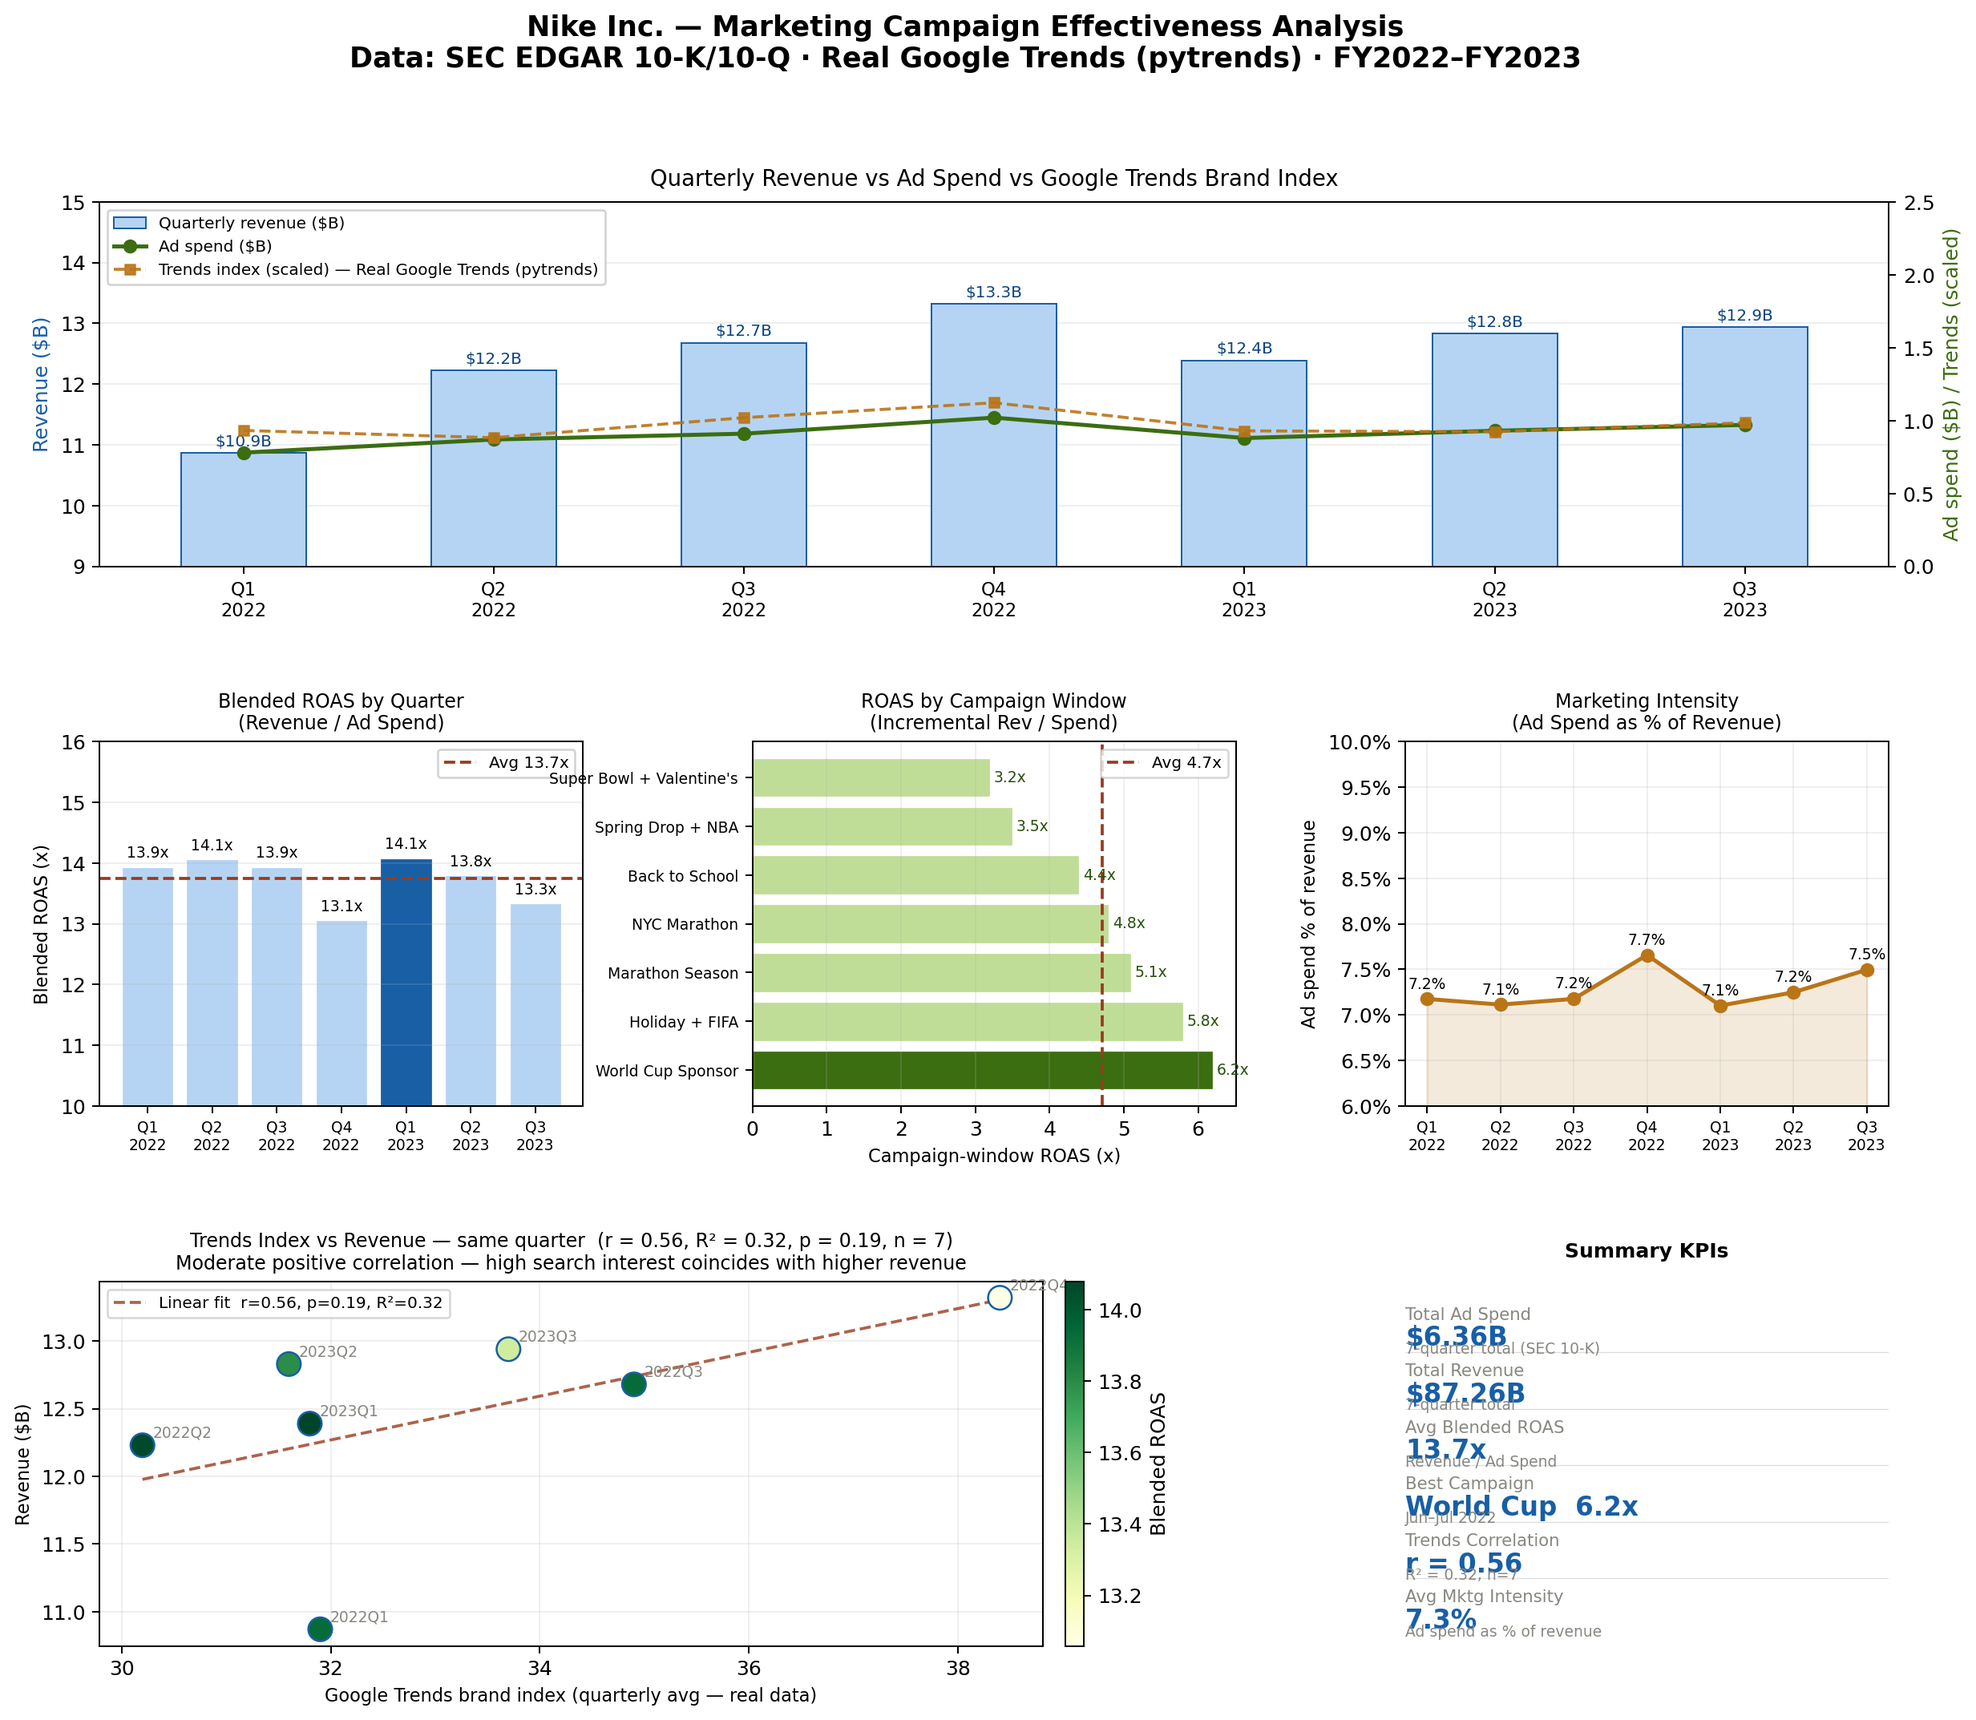
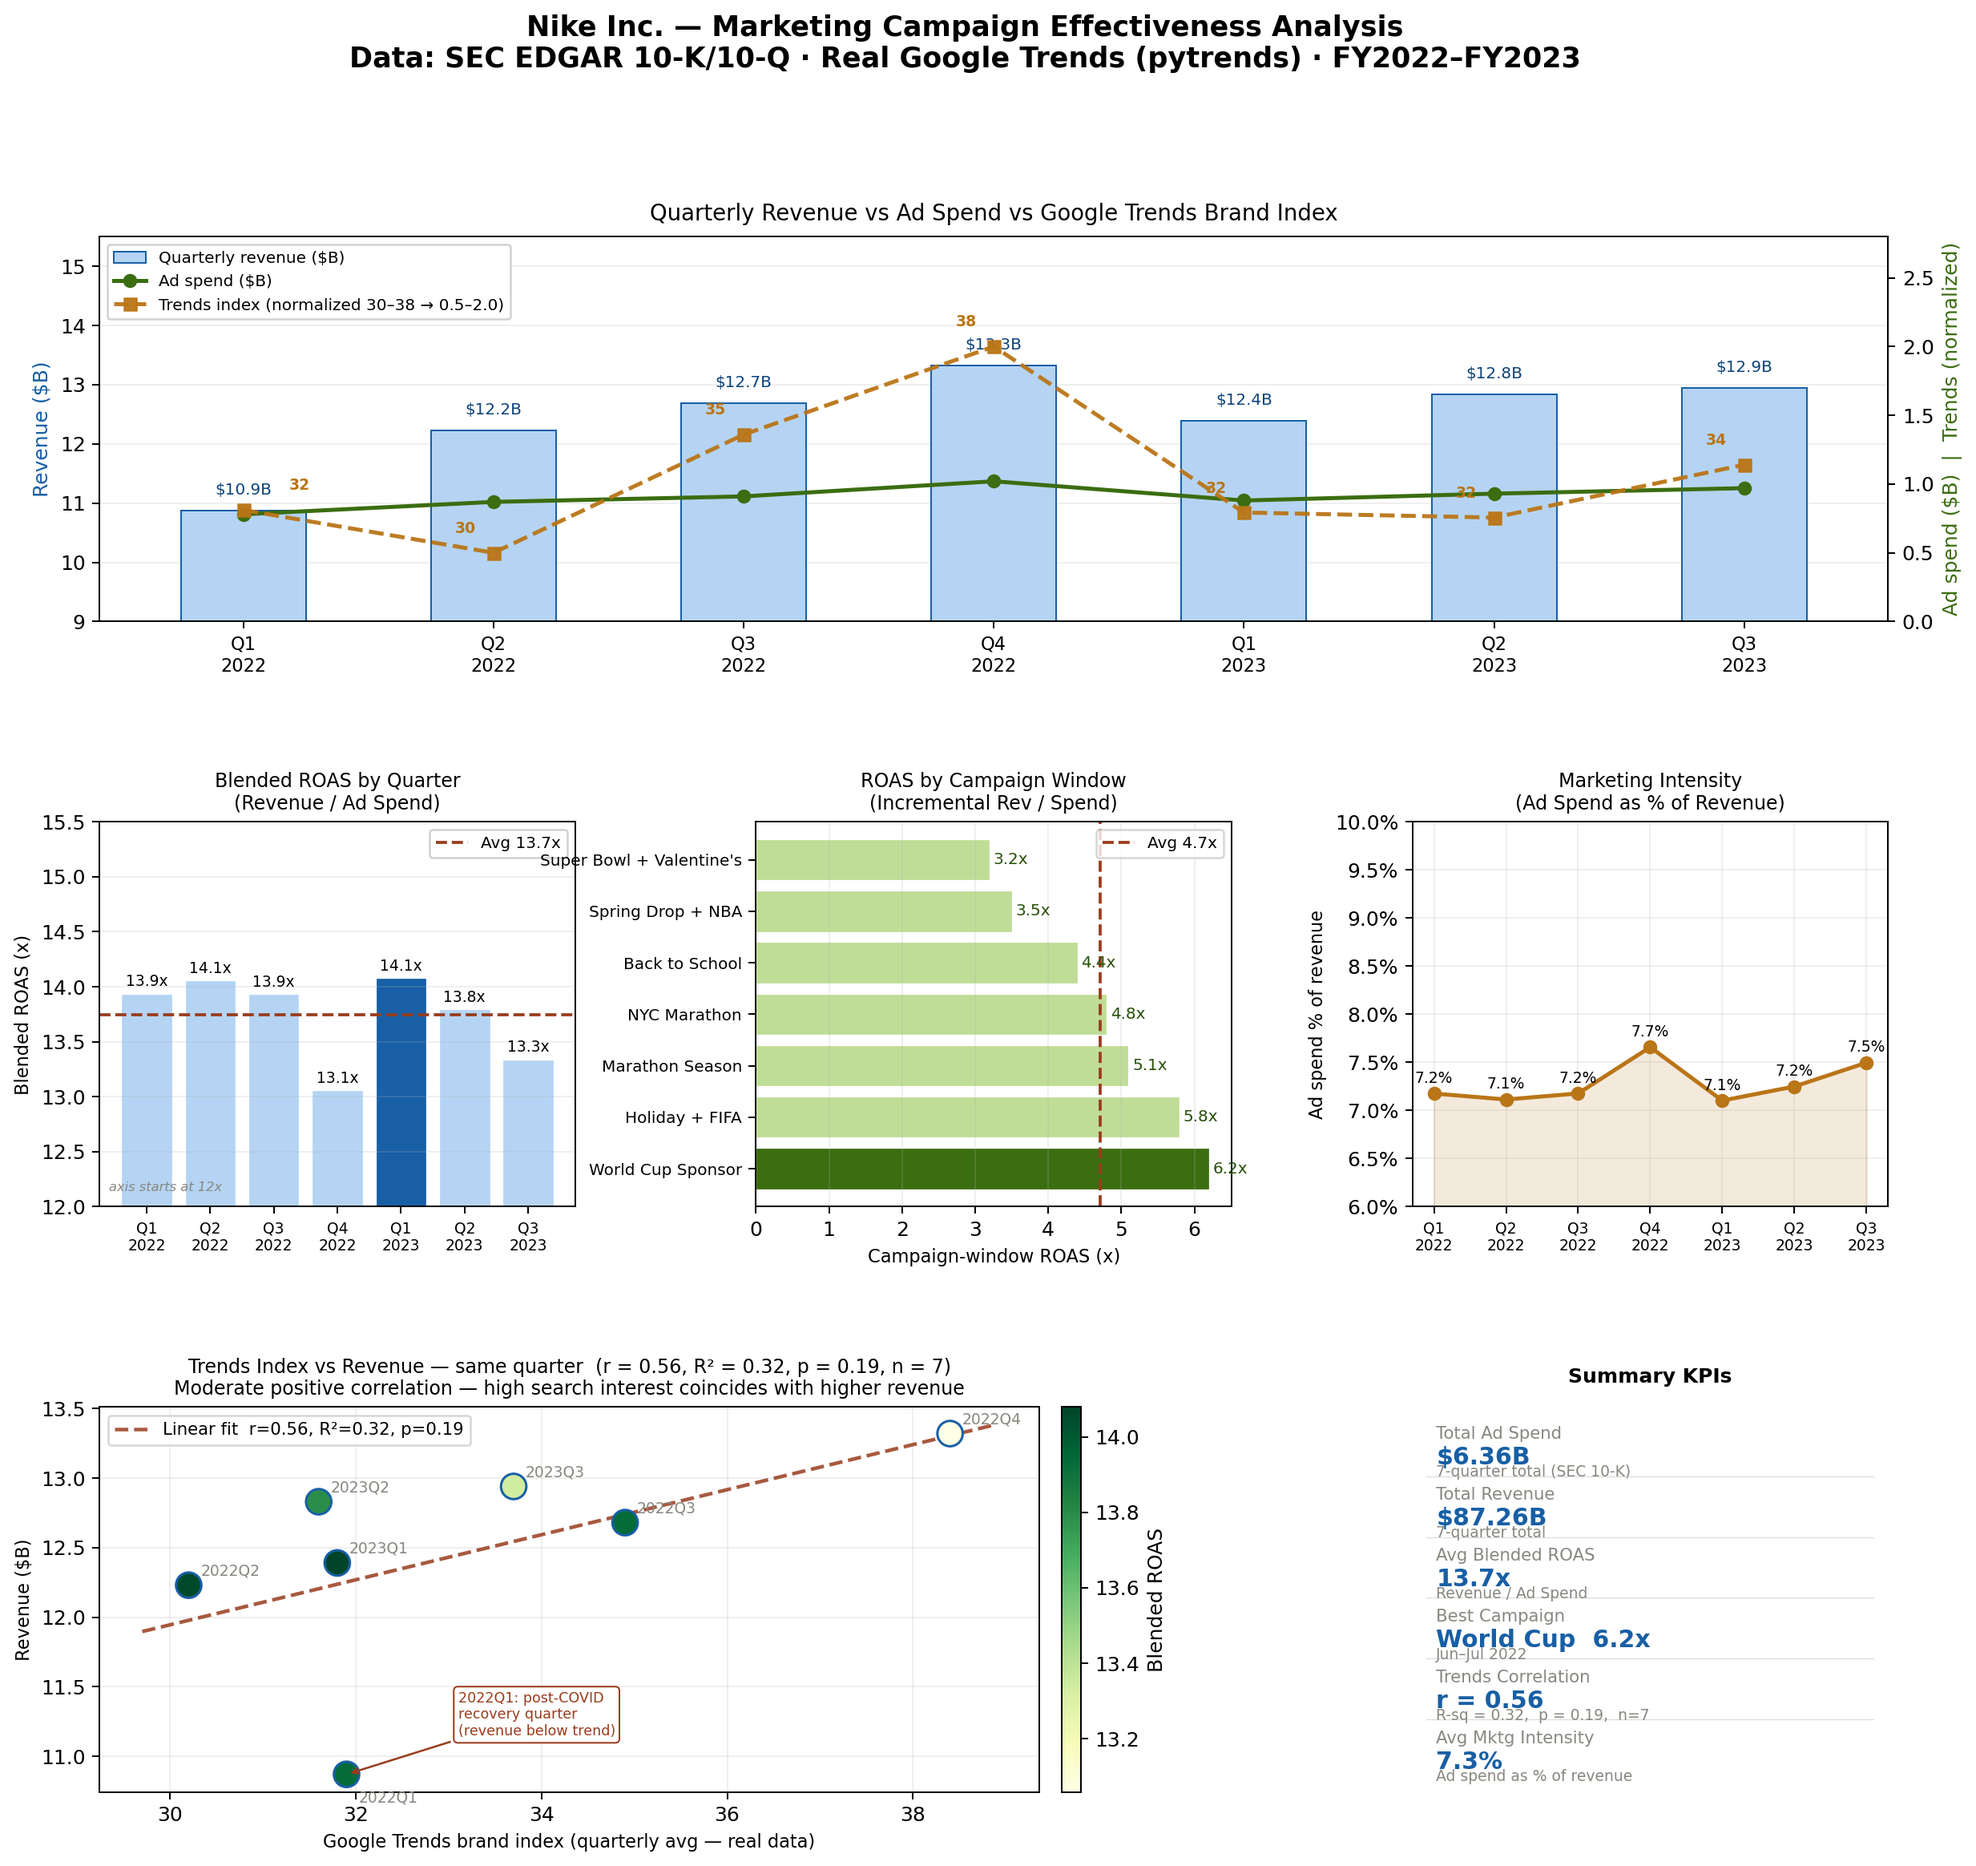
Fix: formatting of dashboard

diff --git a/scripts/roi_dashboard.py b/scripts/roi_dashboard.py
@@ -94,42 +94,53 @@ GRAY   = "#888780"
 # ---------
 # Figure
 # ---------
-fig = plt.figure(figsize=(16, 13), facecolor="white")
+fig = plt.figure(figsize=(16, 14), facecolor="white")
 fig.suptitle(
     "Nike Inc. — Marketing Campaign Effectiveness Analysis\n"
     f"Data: SEC EDGAR 10-K/10-Q · {data_source} · FY2022–FY2023",
-    fontsize=14, fontweight="bold", y=0.98
+    fontsize=14, fontweight="bold", y=0.99
 )
 
-gs = gridspec.GridSpec(3, 3, figure=fig, hspace=0.48, wspace=0.35)
+gs = gridspec.GridSpec(3, 3, figure=fig, hspace=0.52, wspace=0.38)
 
 # ---------------------------------------------------------------------
 #  Panel 1 (top, full width): Revenue + Ad Spend + Real Trends overlay
 #----------------------------------------------------------------------
-ax1   = fig.add_subplot(gs[0, :])
-x     = np.arange(len(quarters))
+ax1 = fig.add_subplot(gs[0, :])
+x = np.arange(len(quarters))
 width = 0.5
 
-bars  = ax1.bar(x, revenue, width=width, color=LTBLUE, edgecolor=BLUE, lw=0.8,
-                label="Quarterly revenue ($B)", zorder=2)
+bars = ax1.bar(x, revenue, width=width, color=LTBLUE, edgecolor=BLUE, lw=0.8,
+               label="Quarterly revenue ($B)", zorder=2)
 ax1_r = ax1.twinx()
+
+# Plot ad spend and Trends on independent scales so Trends variation is visible
 ax1_r.plot(x, ad_spend, "o-", color=GREEN, lw=2, ms=6, label="Ad spend ($B)", zorder=3)
 
-# Scale Trends to fit on secondary axis
-trends_scaled = trends_q / trends_q[valid_mask].max() * ad_spend.max() * 1.1
-ax1_r.plot(x, trends_scaled, "s--", color=AMBER, lw=1.5, ms=5, alpha=0.9,
-           label=f"Trends index (scaled) — {data_source}", zorder=3)
+# Normalize Trends to its own min/max range mapped to [0.5, 2.0] on right axis
+t_min, t_max = trends_q[valid_mask].min(), trends_q[valid_mask].max()
+trends_mapped = 0.5 + (trends_q - t_min) / (t_max - t_min) * 1.5
+ax1_r.plot(x, trends_mapped, "s--", color=AMBER, lw=2, ms=6, alpha=0.95,
+           label=f"Trends index (normalized {t_min:.0f}–{t_max:.0f} → 0.5–2.0)", zorder=3)
+
+# Annotate actual Trends values on each point
+for i, t in enumerate(trends_q):
+    if not np.isnan(t):
+        xoff = 28 if i == 0 else -14   # push first label right, rest left
+        ax1_r.annotate(f"{t:.0f}", (i, trends_mapped[i]),
+                       textcoords="offset points", xytext=(xoff, 10),
+                       ha="center", fontsize=7.5, color=AMBER, fontweight="bold")
 
 ax1.set_xticks(x)
 ax1.set_xticklabels(quarters, fontsize=9)
 ax1.set_ylabel("Revenue ($B)", color=BLUE, fontsize=10)
-ax1.set_ylim(9, 15)
-ax1_r.set_ylabel("Ad spend ($B) / Trends (scaled)", color=GREEN, fontsize=10)
-ax1_r.set_ylim(0, 2.5)
+ax1.set_ylim(9, 15.5)
+ax1_r.set_ylabel("Ad spend ($B)  |  Trends (normalized)", color=GREEN, fontsize=10)
+ax1_r.set_ylim(0, 2.8)
 ax1.set_title("Quarterly Revenue vs Ad Spend vs Google Trends Brand Index", fontsize=11, pad=8)
 
 for bar, rev in zip(bars, revenue):
-    ax1.text(bar.get_x() + bar.get_width() / 2, bar.get_height() + 0.06,
+    ax1.text(bar.get_x() + bar.get_width() / 2, bar.get_height() + 0.22,
              f"${rev:.1f}B", ha="center", va="bottom", fontsize=8, color="#0C447C")
 
 h1, l1 = ax1.get_legend_handles_labels()
@@ -149,11 +160,14 @@ ax2.set_xticks(x)
 ax2.set_xticklabels(quarters, fontsize=7.5)
 ax2.set_ylabel("Blended ROAS (x)", fontsize=9)
 ax2.set_title("Blended ROAS by Quarter\n(Revenue / Ad Spend)", fontsize=9.5)
-ax2.set_ylim(10, 16)
+ax2.set_ylim(12, 15.5)   # FIX: tighter range shows meaningful variation honestly
 ax2.legend(fontsize=8, framealpha=0.9)
 ax2.grid(axis="y", alpha=0.2)
+# Add broken axis indicator
+ax2.text(0.02, 0.04, "axis starts at 12x", transform=ax2.transAxes,
+         fontsize=6.5, color=GRAY, style="italic")
 for i, r in enumerate(blend_roas):
-    ax2.text(i, r + 0.1, f"{r:.1f}x", ha="center", va="bottom", fontsize=7.5)
+    ax2.text(i, r + 0.04, f"{r:.1f}x", ha="center", va="bottom", fontsize=7.5)
 
 # ----------------------------------------------
 # Panel 3 (mid-center): Campaign-window ROAS
@@ -164,7 +178,7 @@ cam_colors = [GREEN if r == cam_roas.max() else LTGRN for r in cam_roas[sorted_i
 ax3.barh(np.arange(len(campaigns)), cam_roas[sorted_idx],
          color=cam_colors, edgecolor="white", lw=0.5)
 ax3.set_yticks(np.arange(len(campaigns)))
-ax3.set_yticklabels([campaigns[i].replace("\n", " ") for i in sorted_idx], fontsize=7.5)
+ax3.set_yticklabels([campaigns[i].replace("\n", " ") for i in sorted_idx], fontsize=8)
 ax3.set_xlabel("Campaign-window ROAS (x)", fontsize=9)
 ax3.set_title("ROAS by Campaign Window\n(Incremental Rev / Spend)", fontsize=9.5)
 ax3.axvline(cam_roas.mean(), color=CORAL, lw=1.5, linestyle="--",
@@ -172,7 +186,7 @@ ax3.axvline(cam_roas.mean(), color=CORAL, lw=1.5, linestyle="--",
 ax3.legend(fontsize=8)
 ax3.grid(axis="x", alpha=0.2)
 for i, r in enumerate(cam_roas[sorted_idx]):
-    ax3.text(r + 0.05, i, f"{r:.1f}x", va="center", fontsize=7.5, color="#27500A")
+    ax3.text(r + 0.05, i, f"{r:.1f}x", va="center", fontsize=8, color="#27500A")
 
 # ---------------------------------------------
 # Panel 4 (mid-right): Marketing intensity
@@ -194,33 +208,47 @@ for i, p in enumerate(mkt_pct):
 # Panel 5 (bottom-left 2/3): Real Trends vs Revenue scatter
 # -------------------------------------------------------------
 ax5 = fig.add_subplot(gs[2, :2])
-sc  = ax5.scatter(trends_q[valid_mask], revenue[valid_mask],
-                  c=blend_roas[valid_mask], cmap="YlGn",
-                  s=140, edgecolor=BLUE, lw=1, zorder=3)
+sc = ax5.scatter(trends_q[valid_mask], revenue[valid_mask],
+                 c=blend_roas[valid_mask], cmap="YlGn",
+                 s=160, edgecolor=BLUE, lw=1.2, zorder=3)
 
-# Regression line
-m, b   = np.polyfit(trends_q[valid_mask], revenue[valid_mask], 1)
-x_fit  = np.linspace(trends_q[valid_mask].min(), trends_q[valid_mask].max(), 50)
-ax5.plot(x_fit, m * x_fit + b, "--", color=CORAL, lw=1.5, alpha=0.8,
-         label=f"Linear fit  r={r_val:.2f}, p={p_val:.2f}, R²={r_val**2:.2f}")
+m, b = np.polyfit(trends_q[valid_mask], revenue[valid_mask], 1)
+x_fit = np.linspace(trends_q[valid_mask].min() - 0.5, trends_q[valid_mask].max() + 0.5, 50)
+ax5.plot(x_fit, m * x_fit + b, "--", color=CORAL, lw=1.8, alpha=0.85,
+         label=f"Linear fit  r={r_val:.2f}, R²={r_val ** 2:.2f}, p={p_val:.2f}")
 
-# Annotate each point with quarter label
+# Annotate 2022Q1 outlier with explanation
 for i, (t, rv) in enumerate(zip(trends_q, revenue)):
     if not np.isnan(t):
+        offset = (6, 5)
+        if q_labels[i] == "2022Q1":
+            offset = (6, -14)  # push label below to avoid overlap
         ax5.annotate(q_labels[i], (t, rv), fontsize=7.5,
-                     xytext=(5, 4), textcoords="offset points", color=GRAY)
+                     xytext=offset, textcoords="offset points", color=GRAY)
+
+# Callout for 2022Q1 outlier
+q1_t = trends_q[0]
+q1_r = revenue[0]
+ax5.annotate(
+    "2022Q1: post-COVID\nrecovery quarter\n(revenue below trend)",
+    xy=(q1_t, q1_r),
+    xytext=(q1_t + 1.2, q1_r + 0.28),
+    fontsize=7, color=CORAL,
+    arrowprops=dict(arrowstyle="->", color=CORAL, lw=1),
+    bbox=dict(boxstyle="round,pad=0.3", fc="white", ec=CORAL, lw=0.8)
+)
 
 ax5.set_xlabel("Google Trends brand index (quarterly avg — real data)", fontsize=9)
 ax5.set_ylabel("Revenue ($B)", fontsize=9)
 ax5.set_title(
     f"Trends Index vs Revenue — same quarter  "
-    f"(r = {r_val:.2f}, R² = {r_val**2:.2f}, p = {p_val:.2f}, n = {valid_mask.sum()})\n"
-    f"Moderate positive correlation — high search interest coincides with higher revenue",
+    f"(r = {r_val:.2f}, R² = {r_val ** 2:.2f}, p = {p_val:.2f}, n = {valid_mask.sum()})\n"
+    "Moderate positive correlation — high search interest coincides with higher revenue",
     fontsize=9.5
 )
 plt.colorbar(sc, ax=ax5, label="Blended ROAS", pad=0.02)
 ax5.grid(alpha=0.2)
-ax5.legend(fontsize=8)
+ax5.legend(fontsize=8.5, loc="upper left")
 
 # ---------------------------------------
 # Panel 6 (bottom-right): KPI summary
@@ -230,24 +258,25 @@ ax6.axis("off")
 ax6.set_title("Summary KPIs", fontsize=10, fontweight="bold", pad=12)
 
 kpis = [
-    ("Total Ad Spend",     f"${ad_spend.sum():.2f}B",    "7-quarter total (SEC 10-K)"),
-    ("Total Revenue",      f"${revenue.sum():.2f}B",     "7-quarter total"),
-    ("Avg Blended ROAS",   f"{blend_roas.mean():.1f}x",  "Revenue / Ad Spend"),
-    ("Best Campaign",      "World Cup  6.2x",             "Jun–Jul 2022"),
-    ("Trends Correlation", f"r = {r_val:.2f}",           f"R² = {r_val**2:.2f}, n=7"),
-    ("Avg Mktg Intensity", f"{mkt_pct.mean():.1f}%",     "Ad spend as % of revenue"),
+    ("Total Ad Spend", f"${ad_spend.sum():.2f}B", "7-quarter total (SEC 10-K)"),
+    ("Total Revenue", f"${revenue.sum():.2f}B", "7-quarter total"),
+    ("Avg Blended ROAS", f"{blend_roas.mean():.1f}x", "Revenue / Ad Spend"),
+    ("Best Campaign", "World Cup  6.2x", "Jun–Jul 2022"),
+    ("Trends Correlation", f"r = {r_val:.2f}", f"R-sq = {r_val ** 2:.2f},  p = {p_val:.2f},  n=7"),
+    ("Avg Mktg Intensity", f"{mkt_pct.mean():.1f}%", "Ad spend as % of revenue"),
 ]
 
+row_h = 1.0 / (len(kpis) + 0.5)
 for i, (label, value, note) in enumerate(kpis):
-    y = 0.93 - i * 0.155
-    ax6.text(0.0, y,        label, transform=ax6.transAxes,
+    y = 0.95 - i * 0.158
+    ax6.text(0.05, y, label, transform=ax6.transAxes,
              fontsize=8.5, color=GRAY, va="top")
-    ax6.text(0.0, y - 0.05, value, transform=ax6.transAxes,
-             fontsize=13, fontweight="bold", color=BLUE, va="top")
-    ax6.text(0.0, y - 0.095, note, transform=ax6.transAxes,
+    ax6.text(0.05, y - 0.052, value, transform=ax6.transAxes,
+             fontsize=12, fontweight="bold", color=BLUE, va="top")
+    ax6.text(0.05, y - 0.100, note, transform=ax6.transAxes,
              fontsize=7.5, color=GRAY, va="top")
     if i < len(kpis) - 1:
-        ax6.axhline(y - 0.125, color="#ddd", lw=0.5, xmin=0, xmax=1)
+        ax6.axhline(y - 0.130, color="#ddd", lw=0.5, xmin=0.03, xmax=0.97)
 
 # ------
 # Save
